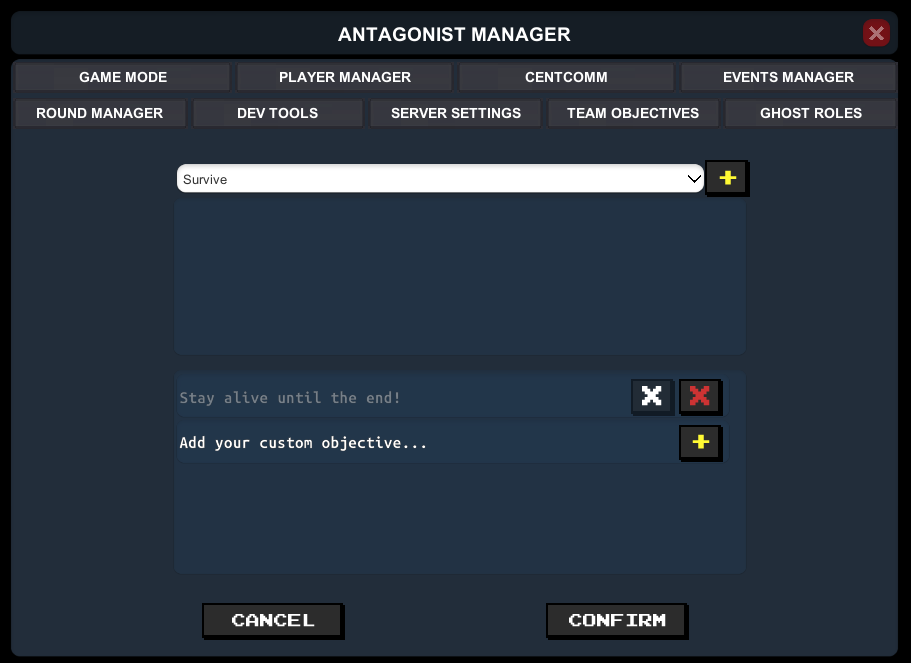
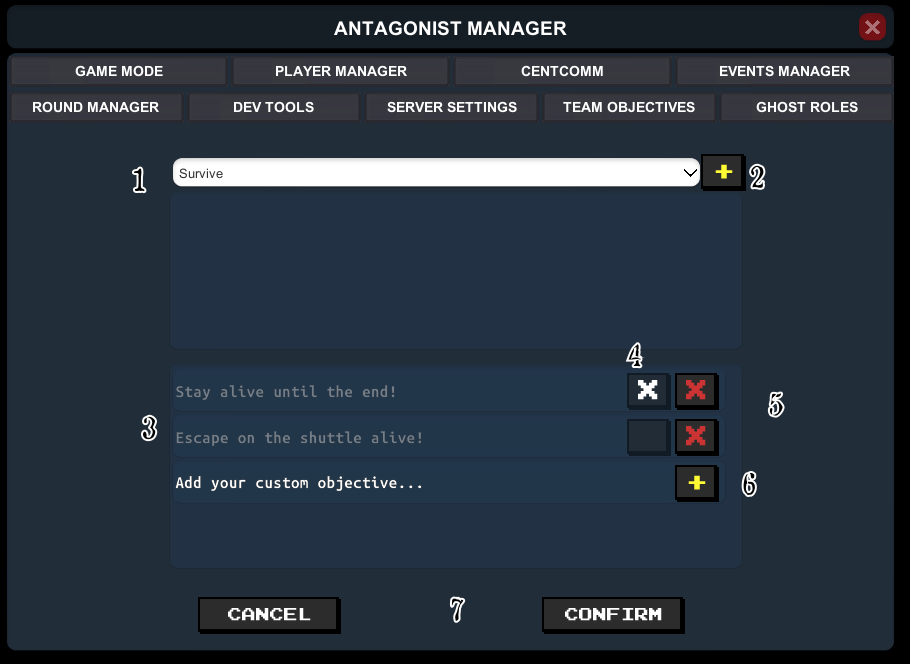
New image on admintool

diff --git a/docs/2_UserInterface/AdminTools/AdminTools.md b/docs/2_UserInterface/AdminTools/AdminTools.md
@@ -160,6 +160,14 @@ Allows you to give selected players the role of mentor.
 ##### 2.2b.12 - Personnal objective
 ![personnal](/img/UI/AdminTools/PersonnalObjective.png)
 
+* 1 - List of objectives and field for input some info for obj
+* 2 - Adds current objective (that displayed left) with all inputed settings
+* 3 - Preview of objectives
+* 4 - Objective accomplish ? Y/N
+* 5 - Delet a objective (must confirme)
+* 6 - Adds custom objective with field for custom obj text
+* 7 - cancel all and validate all
+
 #### 2.2c - CC (Central Command, CentComm
 ![CentComm](/img/UI/AdminTools/2-CentComm.png)
 
@@ -202,9 +210,18 @@ Various "other" server control settings are collected here, new ones will be add
 #### 2.2I - Add Ghost Roles
 ![ghost](/img/UI/AdminTools/8-GhostRoles.png)
 
+* 1 - Title and description of active roles
+* 2 - Settings - opens role settings (left time, min-max players, etc. (maybe will be added more settings later))
+* 3 - Delet button - delete role (if on server need to send info first)
+* 4 -adds new ghost role that can be choiced from list with all current ghost roles (only before sending to server)
+* 5 - New roles Preview
+* 6 - List of roles
+* 7 - Cancel all local admin input and sends info to server
+
 ### 2.3 - ACHAT
 ![Purchasing](https://i.imgur.com/uVoHfiK.png)
 In-game chat window for administrators, only between them.
+
 ### 2.4 - ALOGS
 ![AdminLogs](https://i.imgur.com/uvhI6EE.png)
 Admin logs
